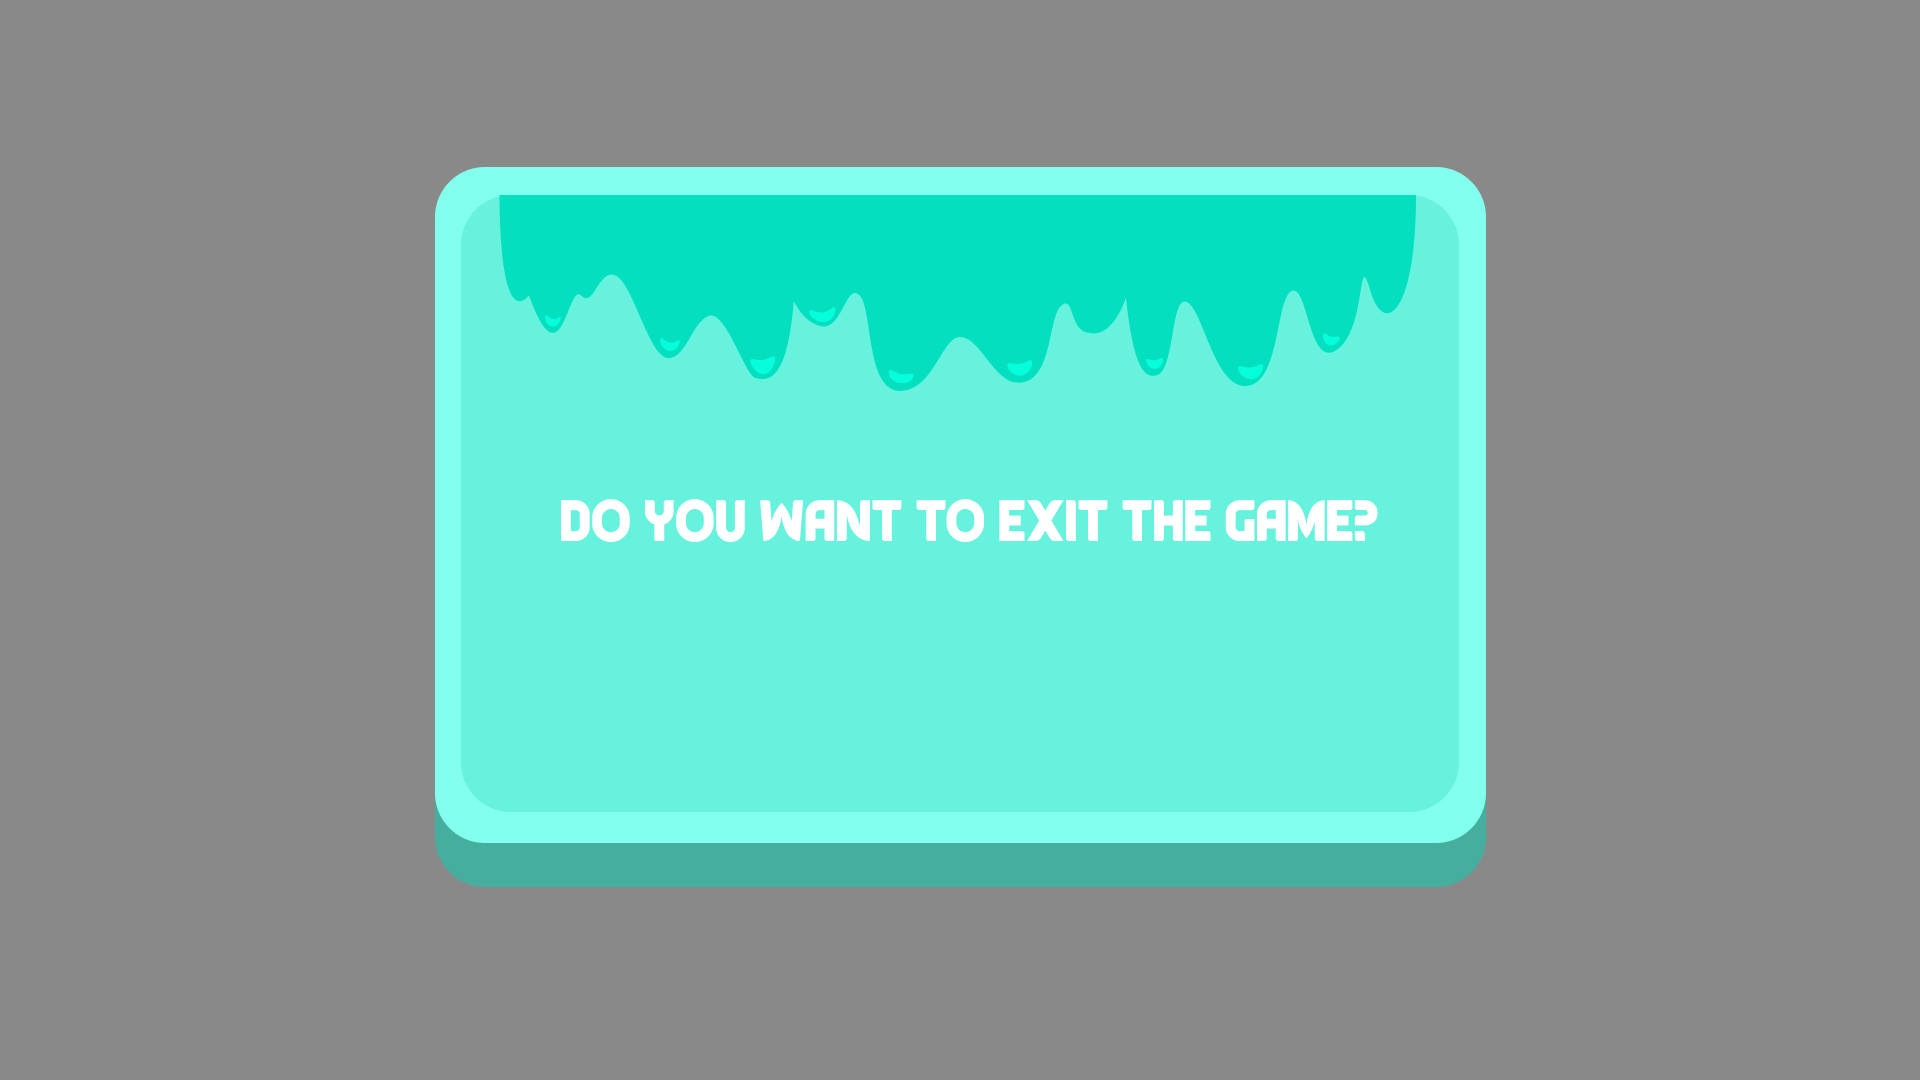
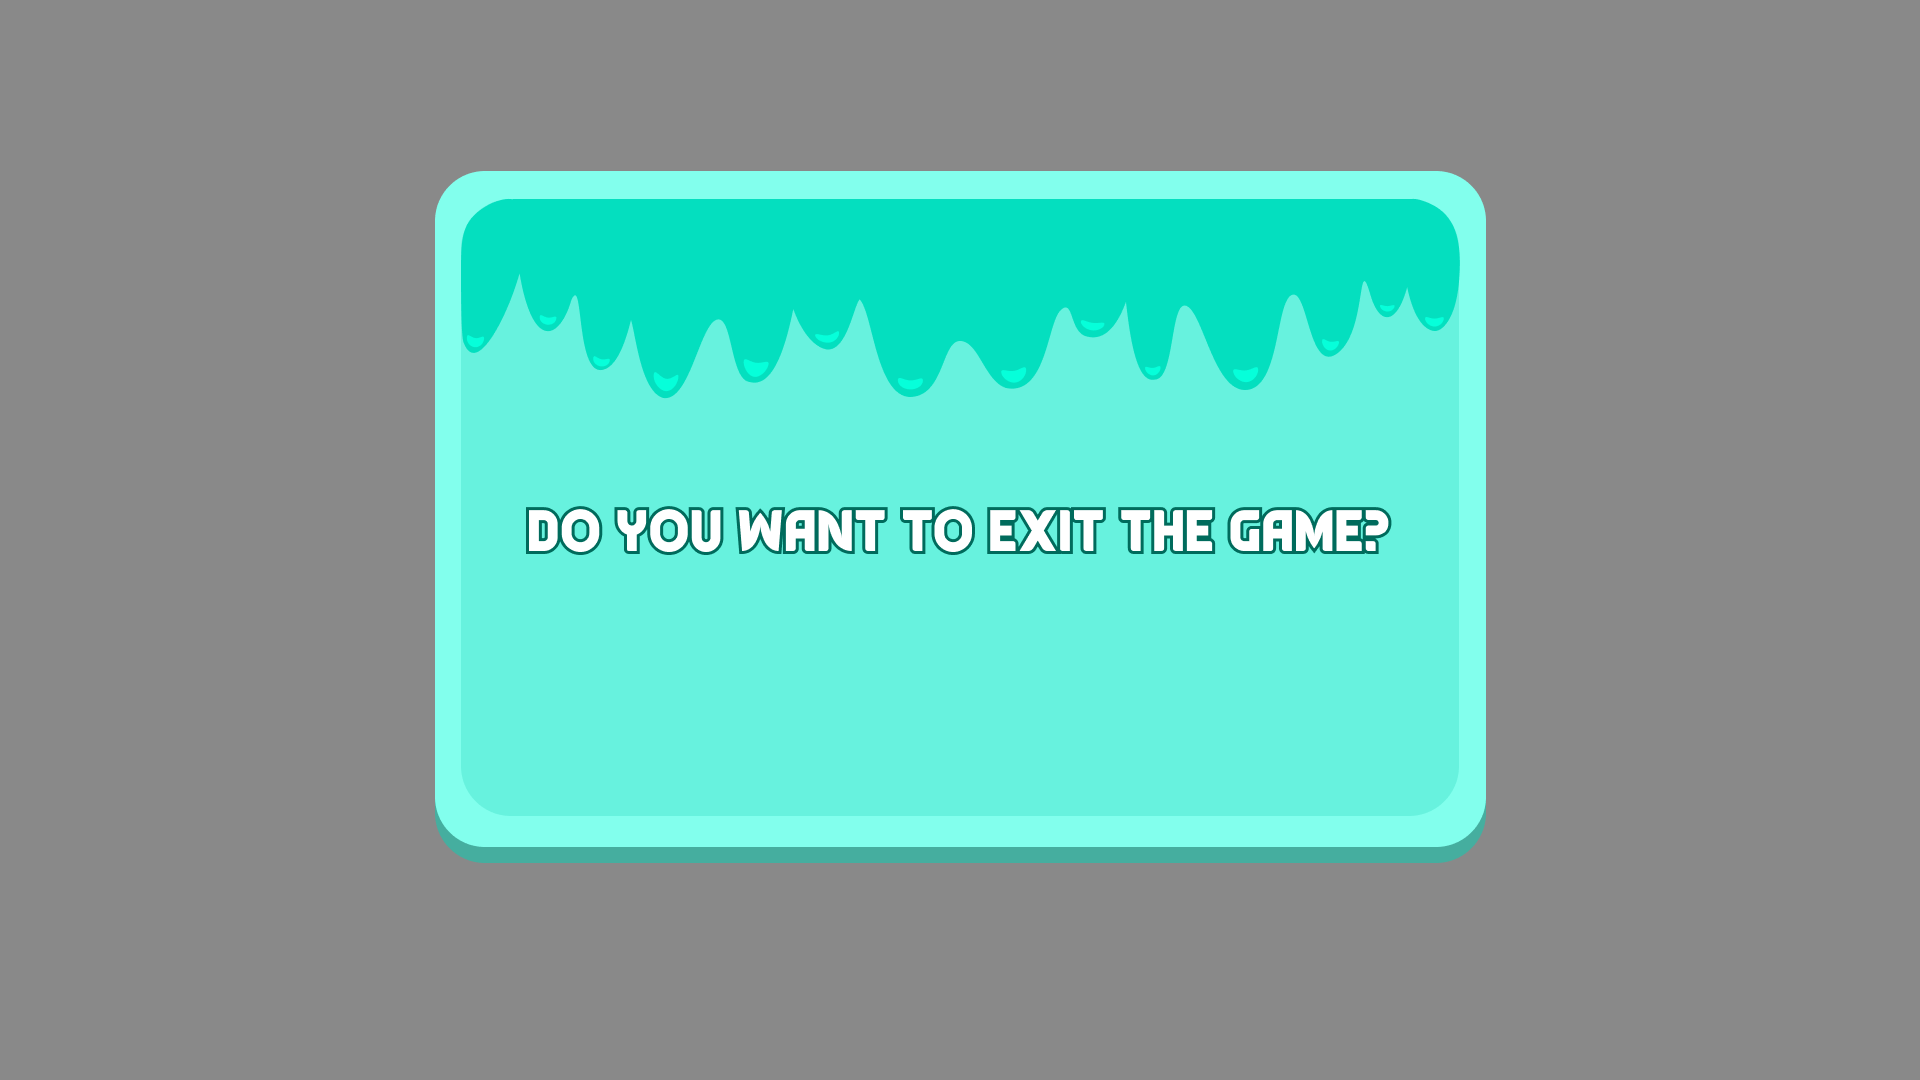
Modify assets in Quit Game Screen

diff --git a/QuitGameScreen.js b/QuitGameScreen.js
@@ -20,15 +20,17 @@ class QuitGameScene extends Phaser.Scene {
         const window = this.add.image(0, 0, 'quitWindow');
         container.add(window);
 
-        const yesButton = this.add.image(-220, 120, 'yesButton');
+        const yesButton = this.add.image(220, 120, 'yesButton');
         yesButton.setInteractive();
         yesButton.on('pointerup', () => {
             this.scene.start('levelMap');
 
         });
         container.add(yesButton);
+
+        -240, 120
     
-        const noButton = this.add.image(220, 120, 'noButton');
+        const noButton = this.add.image(-240, 120, 'noButton');
         noButton.setInteractive();
         noButton.on('pointerdown', () => {
           this.scene.stop();

diff --git a/game.js b/game.js
@@ -1,7 +1,7 @@
 var config = {
     type: Phaser.AUTO,
     backgroundColor: 0x0C2238,
-    scene: [LoadingScene, IntroGame, PlayLogofy, LevelMap,  StartGame,  QuitGameScene  ],
+    scene: [   LoadingScene, IntroGame, PlayLogofy, LevelMap, StartGame,  QuitGameScene  ],
     pixelArt: true,
     physics: {
         default: "arcade",
